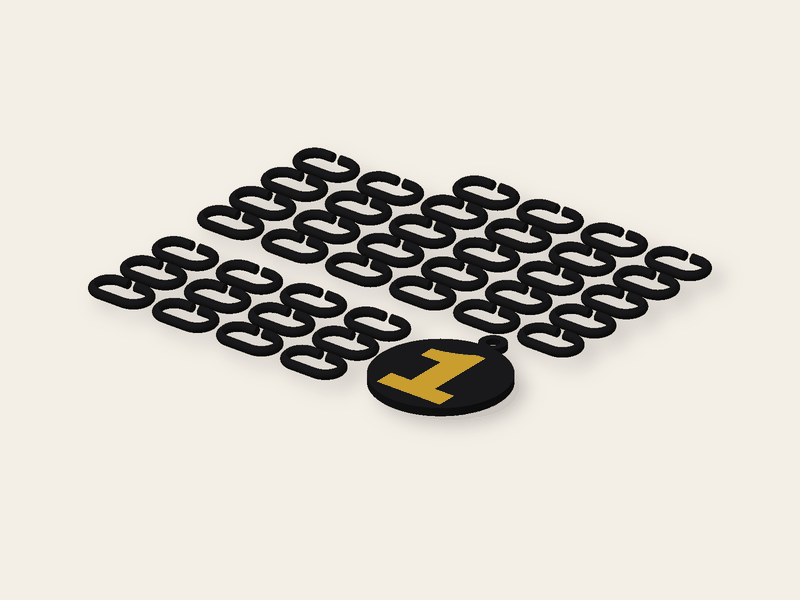
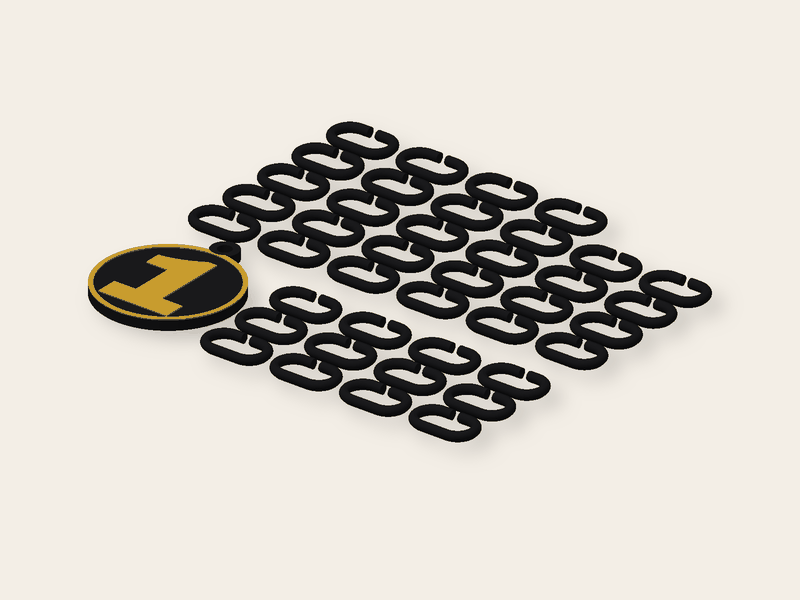
Medal face up again: the number raised with one change of filament by height, the rim in its colour, the plate as thick as a link (4.4) so the chain stays below the change; face down only behind the engine's inlay (not offered); medallion out of OrderService::ASSEMBLED; texts, examples; P.md §8a

Changed region(s): [[0.0938, 0.18, 0.9062, 0.75]]

diff --git a/tests/Feature/ShapeToolsTest.php b/tests/Feature/ShapeToolsTest.php
@@ -4,6 +4,7 @@ namespace Tests\Feature;
 
 use App\Domain\Farm\Palette;
 use App\Domain\Tools\ParametricGenerator;
+use App\Engines\Repair\PythonTool;
 use App\Models\ModelFile;
 use App\Support\PreviewMeta;
 use App\Support\ToolSeo;
@@ -538,7 +539,7 @@ class ShapeToolsTest extends TestCase
         return [$sum / max($weight, 1e-9), $lo, $hi];
     }
 
-    public function test_a_medal_lies_face_down_with_its_motif_smooth_on_the_bed_and_a_round_chain_beside_it(): void
+    public function test_a_medal_has_its_number_raised_in_one_change_and_a_round_chain_beside_it(): void
     {
         $one = ['line1' => '1', 'typeface' => 'archivo'];
         // what the tool starts with: 60 mm and forty links, all of it one plate of a 220 mm bed
@@ -547,35 +548,39 @@ class ShapeToolsTest extends TestCase
         $this->assertLessThanOrEqual(220, max($first['bbox']['x'], $first['bbox']['y']));
         $this->assertSame([], $first['notes']['warnings']);
 
-        // the number is its own part in the bottom three layers, beside the plate in the same layers: printed by parts,
-        // never a change of filament by height
+        // face up: the plate 4.4 mm, the number raised one step on it, one change of filament where it starts; the links
+        // stay under the change, so they print in the plate's filament
         $parts = collect($first['parts'])->keyBy('name');
         $this->assertSame(['body', 'color_1'], $first['notes']['parts']);
-        $this->assertEqualsWithDelta(0.0, $parts['color_1']['bbox'][2], 0.001, 'the motif lies on the bed');
-        $this->assertEqualsWithDelta(0.6, $parts['color_1']['bbox'][5], 0.001, 'three layers of 0.2 mm');
-        $this->assertEqualsWithDelta(0.0, $parts['body']['bbox'][2], 0.001);
-        $this->assertTrue($first['notes']['multi_material']);
-        $this->assertSame([], $first['notes']['color_changes']);
+        $this->assertFalse($first['notes']['multi_material']);
+        $this->assertSame([4.4], array_column($first['notes']['color_changes'], 'z'));
+        $this->assertEqualsWithDelta(4.4, $parts['color_1']['bbox'][2], 0.001);
+        $this->assertEqualsWithDelta(5.0, $parts['color_1']['bbox'][5], 0.001);
+        $this->assertEqualsWithDelta(4.4, $parts['body']['bbox'][5], 0.001, 'nothing of the plate or the chain above the change');
         $this->assertSame(2, $first['notes']['filaments']);
         // a dark plate, a light number (here the built-in colours: no farm in this test)
         $this->assertGreaterThan(Palette::lab($first['notes']['body_color']['hex'])[0] + 40, Palette::lab($first['notes']['colors'][0]['hex'])[0]);
-        $deeper = $this->meta($this->preview('medallion', $one + ['depth' => 1, 'links' => 0], 'all', true)->assertOk());
-        $this->assertEqualsWithDelta(1.0, collect($deeper['parts'])->firstWhere('name', 'color_1')['bbox'][5], 0.001);
 
-        // mirrored: an L seen from above has its stem on the right, so turned over it reads right
-        $plate = $this->meta($this->preview('medallion', ['line1' => 'L', 'links' => 0])->assertOk());
+        // the number reads as it is printed: an L has its stem on the left of its middle
+        $plate = $this->meta($this->preview('medallion', ['line1' => 'L', 'links' => 0], 'all', true)->assertOk());
         $letter = $this->preview('medallion', ['line1' => 'L', 'links' => 0], 'color_1')->assertOk();
-        [$mid, $lo, $hi] = self::middleX($letter->streamedContent() ?: $letter->getContent());
-        $this->assertGreaterThan(($lo + $hi) / 2 + 2, $mid, 'the stem of the L lies right of its middle');
-
-        // the eyelet on top, on the axis; a rim on the back: 0.8 mm over the plate of 3 mm
+        $lPart = collect($plate['parts'])->firstWhere('name', 'color_1');
+        $this->assertGreaterThan(50, $lPart['bbox'][3] - $lPart['bbox'][0], 'the number\'s part carries the rim round the medal');
+        // the eyelet on top, on the axis; the rim goes with the number's colour, one step high
         $this->assertEqualsWithDelta($plate['bbox']['x'] / 2, $plate['notes']['eyelet']['x'], 0.1);
-        $this->assertEqualsWithDelta(3.8, $plate['bbox']['z'], 0.01);
+        $this->assertEqualsWithDelta(5.0, $plate['bbox']['z'], 0.01);
+        $this->assertNotEmpty($letter->streamedContent() ?: $letter->getContent());
 
-        // the links: round bars on a flat of 1 mm, as tall as the round bar needs, 838 mm³ each
+        // a thin plate without links stays thin; with links it grows to the height of a link and says so
+        $thin = $this->meta($this->preview('medallion', $one + ['thickness' => 3, 'links' => 0])->assertOk());
+        $this->assertEqualsWithDelta(3.6, $thin['bbox']['z'], 0.01);
+        $this->assertArrayNotHasKey('thickened', $thin['notes']);
+        $thick = $this->meta($this->preview('medallion', $one + ['thickness' => 3])->assertOk());
+        $this->assertSame(4.4, $thick['notes']['thickened']);
+
+        // the links: round bars on a flat of 1 mm, 838 mm³ each
         $bare = $this->meta($this->preview('medallion', $one + ['links' => 0])->assertOk());
         $this->assertEqualsWithDelta(40 * 838.3, $first['volume_mm3'] - $bare['volume_mm3'], 40 * 8);
-        $this->assertEqualsWithDelta(4.33, $first['bbox']['z'], 0.01, 'the links stand a little over the medal');
 
         // seven shapes, each one closed solid on the bed with the eyelet on its axis
         foreach (['circle', 'star', 'hex', 'shield', 'octagon', 'rosette', 'heart'] as $body) {
@@ -583,9 +588,8 @@ class ShapeToolsTest extends TestCase
             $this->assertEqualsWithDelta($body === 'hex' ? 60 * cos(M_PI / 6) : 60, $m['bbox']['x'], 0.6, $body);      // a hexagon is 60 mm across its corners
             $this->assertEqualsWithDelta($m['bbox']['x'] / 2, $m['notes']['eyelet']['x'], 0.6, $body);
             $this->assertSame(['body', 'color_1'], $m['notes']['parts'], $body);
-            foreach ($m['parts'] as $piece) {
-                $this->assertEqualsWithDelta(0.0, $piece['bbox'][2], 0.001, $body.' '.$piece['name']);
-            }
+            $this->assertCount(1, $m['notes']['color_changes'], $body);
+            $this->assertEqualsWithDelta(0.0, collect($m['parts'])->firstWhere('name', 'body')['bbox'][2], 0.001, $body);
         }
 
         // more links than fit one bed: as many as fit, and the tool says so
@@ -594,21 +598,31 @@ class ShapeToolsTest extends TestCase
         $this->assertSame(80, $long['notes']['chain']['asked']);
         $this->assertContains('links_cut', $long['notes']['warnings']);
         $this->assertLessThanOrEqual(220, max($long['bbox']['x'], $long['bbox']['y']));
-        // the biggest medal with forty links is still one plate of 220 mm
         $big = $this->meta($this->preview('medallion', $one + ['width' => 120])->assertOk());
         $this->assertSame(40, $big['notes']['chain']['links']);
         $this->assertLessThanOrEqual(220, max($big['bbox']['x'], $big['bbox']['y']));
-
-        // a picture in colours lies face down the same way: every colour its own part in the bottom layers
-        $star = $this->meta($this->preview('medallion', ['artwork' => 'lib:colour/smiling-star', 'links' => 0], 'all', true)->assertOk());
-        $this->assertGreaterThan(2, count($star['notes']['parts']));
-        foreach ($star['parts'] as $piece) {
-            if ($piece['name'] !== 'body') {
-                $this->assertLessThanOrEqual(0.601, $piece['bbox'][5], $piece['name']);
-            }
-        }
         $this->preview('medallion', $one + ['links' => 81])->assertStatus(422);
-        $this->get('/tools/medallion')->assertOk()->assertSee('data-param="links"', false)->assertSee('data-preset="place1"', false);
+        $this->get('/tools/medallion')->assertOk()->assertSee('data-param="links"', false)->assertSee('data-preset="place1"', false)->assertDontSee('data-param="depth"', false);
+    }
+
+    public function test_a_medal_face_down_with_its_motif_inlaid_waits_in_the_engine(): void
+    {
+        // `inlay` is not offered on the page (the farm prints one filament per plate); the engine keeps it ready
+        $generator = app(ParametricGenerator::class);
+        $forTool = (new \ReflectionMethod($generator, 'forTool'))->invoke($generator, 'medallion', ParametricGenerator::clean('medallion', ['line1' => 'L', 'typeface' => 'archivo', 'links' => 0]));
+        $this->assertArrayNotHasKey('inlay', ParametricGenerator::clean('medallion', ['line1' => '1', 'inlay' => true]), 'the page cannot ask for it');
+        $path = tempnam(sys_get_temp_dir(), 'medal').'.stl';
+        $python = app(PythonTool::class);
+        $params = $path.'.json';                       // the palette makes it longer than a command line may be
+        file_put_contents($params, (string) json_encode($forTool + ['inlay' => true, 'depth' => 0.6]));
+        $meta = $python->runScript('param_tool.py', ['medallion', $path, '@'.$params, 'color_1', 'print'], 60);
+        @unlink($path);
+        @unlink($params);
+        $notes = (array) ($meta['notes'] ?? []);
+        $this->assertSame(['body', 'color_1'], $notes['parts'] ?? null, json_encode($meta));
+        $this->assertTrue($notes['multi_material']);
+        $this->assertSame([], $notes['color_changes']);
+        $this->assertEqualsWithDelta(0.6, $meta['bbox']['z'] ?? 0, 0.001, 'the motif in the bottom three layers');
     }
 
     public function test_an_organizer_is_a_tall_dish_with_compartments_or_round_holes(): void

diff --git a/engines/python/shape_kinds.py b/engines/python/shape_kinds.py
@@ -405,12 +405,15 @@ def build(M, Invalid, p, product):
         if floor_mode not in ("engraved", "colors", "plain"):
             raise Invalid("bad_choice", "floor")
         flush, rim, bevel = floor_mode == "colors", False, False       # colours of a floor can only be inlaid: the walls stand in the same layers
-    # a medal lies face down: its motif is the bottom layers, smooth from the bed, in its own colour beside the plate's
-    # (two filaments in the same layers: printed by parts, never a change by height); the eyelet always on top of it
-    face_down = product == "medallion"
-    if face_down:
+    # a medal: face up, its motif raised and changed by height, a rim round it in the motif's first colour, the eyelet
+    # always on top of it. With `inlay` it lies face down instead: the motif is the bottom layers, smooth from the bed, in
+    # its own colour beside the plate's. Two filaments in the same layers need a printer that prints both in one plate;
+    # the farm does not yet, so the page does not offer it (docs/P.md §8)
+    medal = product == "medallion"
+    face_down = medal and bool(p.get("inlay", False))
+    if medal:
         flush, rim, bevel = False, False, False
-    eyelet = (bool(p.get("eyelet", False)) and product in ("charm", "keychain", "earrings", "ornament", "gingerbread")) or (bool(p.get("hang", False)) and product in ("cookie", "name_letter")) or face_down
+    eyelet = (bool(p.get("eyelet", False)) and product in ("charm", "keychain", "earrings", "ornament", "gingerbread")) or (bool(p.get("hang", False)) and product in ("cookie", "name_letter")) or medal
     biscuit = product == "cookie"                             # a picture or a silhouette as dough, icing piped on it by hand
     cookie = product in ("gingerbread", "name_letter", "topper")      # the shape is ours, the visitor brings the name
     warn = []
@@ -453,7 +456,7 @@ def build(M, Invalid, p, product):
             pal = options["palette"]
             first = options["assign"].get("1")
             # letters dark on a light plate; a medal the other way round, its number shines on a dark plate
-            code = first or ((max if face_down else min)(pal, key=lambda f: _light(f[1]))[0] if pal else "")
+            code = first or ((max if medal else min)(pal, key=lambda f: _light(f[1]))[0] if pal else "")
             hx = dict((c, h) for c, h in pal).get(code, "#222222")
             layers = [{"index": 1, "rgb": hx, "code": code, "hex": hx, "share": 1.0, "own": art, "stack": art}]
             info = {"source": "text", "silhouette": art, "size": list(S.size(art)), "found": 1, "wanted": 1, "background": "alpha", "missing_chars": tinfo.get("missing_chars", [])}
@@ -549,7 +552,7 @@ def build(M, Invalid, p, product):
         travel = S.dense(S.outer_ring(body2d))
         if cookie and info.get("top"):
             travel = S.started(travel, info["top"])
-        if face_down:
+        if medal:
             # straight above the middle, where the outline is highest there: a medal hangs straight
             bx0, by0, bx1, by1 = body2d.bounds()
             mid = (bx0 + bx1) / 2
@@ -615,6 +618,20 @@ def build(M, Invalid, p, product):
         t = round(mag_h + 0.8, 2)                             # a floor of four layers over the magnet
         notes["thickened"] = t
     depth = n("depth", 0.6)
+    if medal and not face_down and int(n("links", 40)) > 0:
+        tall = math.ceil(_link_profile(LINK[2])[0] / 0.2 - 1e-6) * 0.2
+        if t < tall - 1e-6:
+            # a change of filament by height colours everything above it on the bed, links too: they stay under the plate's top
+            t = round(tall, 2)
+            notes["thickened"] = t
+    if medal and not face_down and layers:
+        # the rim round the medal goes with the motif's first colour, one step high: every band of layers keeps one filament
+        lem2d = medal2d - medal2d.offset(-2.0, J, 2.0, 32)
+        if ring_out is not None:
+            lem2d = lem2d - ring_out.offset(0.01, J, 2.0, 24)
+        if not lem2d.is_empty():
+            layers[0]["own"] = layers[0]["own"] + lem2d
+            layers[0]["stack"] = layers[0]["stack"] + lem2d
     if face_down:
         top = t
         solids = [(layer, layer["own"].extrude(depth)) for layer in layers]
@@ -762,8 +779,8 @@ def build(M, Invalid, p, product):
         spools = sorted(p.get("palette") or [], key=lambda f: -_light(f[1]))
         body_color = own or dish_color or ((spools[0][0], spools[0][1]) if spools else ("", "#ede6d6"))
     elif is_text:
-        pal = sorted(p.get("palette") or [], key=lambda f: _light(f[1]) if face_down else -_light(f[1]))
-        body_color = own or ((pal[0][0], pal[0][1]) if pal else ("", "#2b2b2e" if face_down else "#ede6d6"))       # letters dark, the plate light; a medal the other way round
+        pal = sorted(p.get("palette") or [], key=lambda f: _light(f[1]) if medal else -_light(f[1]))
+        body_color = own or ((pal[0][0], pal[0][1]) if pal else ("", "#2b2b2e" if medal else "#ede6d6"))       # letters dark, the plate light; a medal the other way round
     else:
         # the plate is the picture's lowest colour unless the visitor gives it its own: no filament is changed for it,
         # so a picture of two colours is one change, which is what the farm prints today

diff --git a/lang/es/tools_seo/medallion.php b/lang/es/tools_seo/medallion.php
@@ -2,11 +2,11 @@
 
 return [
     'title' => 'Medalla con cadena para ganadores: 1.º, 2.º y 3.er puesto',
-    'description' => 'Medalla de ganador con número en oro, plata o bronce, lisa por imprimirse boca abajo, y cadena de 40 eslabones. La imprimimos o la descarga gratis.',
+    'description' => 'Medalla de ganador con número en relieve en oro, plata o bronce sobre placa oscura y cadena de 40 eslabones. La imprimimos o descarga el modelo.',
     'h1' => 'Medalla para los ganadores con cadena: oro, plata y bronce',
     'intro' => [
         'La herramienta crea una medalla para los ganadores de una carrera infantil, un torneo, un concurso escolar o el día del niño. Con un clic elige el 1.º, 2.º o 3.er puesto: el número en oro, plata o bronce sobre una placa oscura. Puede cambiar el número, un nombre en dos líneas de hasta 16 caracteres o su propia imagen, y también los colores. La placa tiene siete formas: círculo, estrella, hexágono, octógono, escudo, roseta con borde ondulado y corazón, de 40 a 120 mm de ancho, 60 mm al empezar.',
-        'La medalla se imprime boca abajo. El número o la imagen está en las tres capas inferiores, junto a la placa, así que sale tan liso como el cristal de la cama y en otro color, sin cambio de filamento por altura. Por detrás tiene un borde de 2 mm y la argolla siempre arriba, en el eje. Al lado de la medalla se imprime la cadena: 40 eslabones al empezar, de sección redonda de 4 mm, que encajan unos en otros. Cuarenta eslabones dan una cadena de unos 88 cm y, con una medalla de 60 mm, caben en una cama de 220 × 220 mm.',
+        'El número o la imagen sobresale de la placa y se imprime en un segundo color: la impresora cambia de filamento una vez, a la altura donde empieza el número. Alrededor de la medalla hay un borde de 2 mm del color del número y la argolla siempre está arriba, en el eje. Al lado se imprime la cadena: 40 eslabones al empezar, de sección redonda de 4 mm, que encajan unos en otros. La placa tiene 4,4 mm de grosor, como un eslabón, para que toda la cadena quede del color de la placa. Cuarenta eslabones dan una cadena de unos 88 cm y, con una medalla de 60 mm, caben en una cama de 220 × 220 mm.',
     ],
     'steps' => [
         ['name' => 'Elija el puesto', 'text' => '1.º, 2.º o 3.er puesto: el número recibe oro, plata o bronce y la placa un color oscuro. Puede seguir cambiando el número, un nombre, una imagen y los colores.'],
@@ -15,7 +15,7 @@ return [
         ['name' => 'Pida la impresión o descargue', 'text' => 'Junto a la vista previa ve las medidas; el precio exacto lo muestra la calculadora tras «Continuar». El modelo y el proyecto para el laminador se descargan gratis y sin registro.'],
     ],
     'faq' => [
-        ['q' => '¿Por qué la medalla se imprime boca abajo?', 'a' => 'La cara que toca la cama sale tan lisa y brillante como la cama. El número está en las tres capas inferiores (0,6 mm) junto a la placa, cada uno en su color: la impresora los pone uno al lado del otro solo en esas capas y luego sigue con un color. El número está reflejado para que se lea bien al dar la vuelta a la medalla.'],
+        ['q' => '¿Cómo se imprime un número dorado sobre una placa negra?', 'a' => 'La placa, la cadena y la argolla se imprimen en negro hasta 4,4 mm. Ahí la impresora cambia de filamento una vez e imprime en dorado el número en relieve y el borde de la medalla. Por eso la placa es tan gruesa como un eslabón: la cadena queda por debajo del cambio y sale toda negra.'],
         ['q' => '¿Qué colores tienen los puestos?', 'a' => '1.er puesto PLA Silk dorado, 2.º puesto PLA Silk plateado, 3.er puesto bronce (metálico cuando lo tenemos cargado, si no PLA Silk cobre). La placa es oscura para que el número destaque. Al hacer el pedido elige entre las bobinas cargadas en las impresoras en ese momento.'],
         ['q' => '¿Qué longitud de cadena necesito?', 'a' => 'Para un niño bastan 60 a 70 cm, es decir 28 a 32 eslabones; para un adulto 80 a 90 cm, es decir 36 a 40 eslabones. La cadena se pasa por la cabeza, no tiene cierre.'],
         ['q' => '¿Cómo se unen los eslabones?', 'a' => 'Cada eslabón es un óvalo de 30 × 18 mm con sección redonda de 4 mm y una abertura en el centro de un lado largo. La abertura es casi medio milímetro más estrecha que el eslabón, así que el vecino encaja. Por debajo el eslabón se apoya en una franja plana estrecha y el redondeo empieza a 45°, por eso se imprime sin soportes.'],

diff --git a/lang/cs/tools_seo/medallion.php b/lang/cs/tools_seo/medallion.php
@@ -2,11 +2,11 @@
 
 return [
     'title' => 'Medaile pro vítěze s řetězem: 1., 2. a 3. místo',
-    'description' => 'Medaile pro vítěze se zlatou, stříbrnou nebo bronzovou číslicí, hladkou lícem na podložce, a řetězem ze 40 článků. Vytiskneme ji, nebo model stáhnete.',
+    'description' => 'Medaile pro vítěze se vystouplou zlatou, stříbrnou nebo bronzovou číslicí na tmavé destičce a řetězem ze 40 článků. Vytiskneme ji, nebo model stáhnete.',
     'h1' => 'Medaile pro vítěze s řetězem: zlatá, stříbrná a bronzová',
     'intro' => [
         'Nástroj vytvoří medaili pro vítěze dětského závodu, turnaje, školní soutěže nebo dětského dne. Jedním klepnutím zvolíte 1., 2. nebo 3. místo: číslice ve zlaté, stříbrné nebo bronzové barvě na tmavé destičce. Číslo, jméno do dvou řádků po 16 znacích nebo vlastní obrázek můžete změnit, stejně jako barvy. Destička má sedm tvarů: kruh, hvězdu, šestiúhelník, osmiúhelník, štít, rozetu s vroubkovaným okrajem a srdce, široká je 40 až 120 mm, výchozí 60 mm.',
-        'Medaile se tiskne lícem dolů. Číslice nebo obrázek leží ve spodních třech vrstvách vedle destičky, takže vyjde hladká jako sklo podložky a v jiné barvě, bez výměny filamentu ve výšce. Na zadní straně je lem 2 mm a očko je vždy nahoře na ose. Vedle medaile se vytiskne řetěz: výchozích 40 článků s kulatým průřezem 4 mm, které do sebe zacvaknete. Čtyřicet článků dá řetěz kolem 88 cm a s medailí 60 mm se vejdou na jednu podložku 220 × 220 mm.',
+        'Číslice nebo obrázek vystupuje nad destičku a tiskne se druhou barvou: tiskárna vymění filament ve výšce, kde číslice začíná, jednou za celý tisk. Kolem medaile je lem 2 mm v barvě číslice a očko je vždy nahoře na ose. Vedle medaile se vytiskne řetěz: výchozích 40 článků s kulatým průřezem 4 mm, které do sebe zacvaknete. Destička je silná 4,4 mm, stejně jako článek, aby řetěz zůstal celý v barvě destičky. Čtyřicet článků dá řetěz kolem 88 cm a s medailí 60 mm se vejdou na jednu podložku 220 × 220 mm.',
     ],
     'steps' => [
         ['name' => 'Zvolte místo', 'text' => '1. místo, 2. místo, nebo 3. místo: číslice dostane zlatou, stříbrnou nebo bronzovou barvu, destička tmavou. Číslo, jméno, obrázek i barvy dál měníte.'],
@@ -15,7 +15,7 @@ return [
         ['name' => 'Objednejte tisk, nebo stáhněte', 'text' => 'Vedle náhledu vidíte rozměry, přesnou cenu ukáže kalkulace po „Pokračovat“. Model i projekt pro slicer stáhnete zdarma a bez registrace.'],
     ],
     'faq' => [
-        ['q' => 'Proč se medaile tiskne lícem dolů?', 'a' => 'Líc, který leží na podložce, vyjde hladký a lesklý jako podložka. Číslice je ve spodních třech vrstvách (0,6 mm) vedle destičky, každá v jiné barvě: tiskárna je tiskne vedle sebe jen v těch vrstvách, pak už pokračuje jednou barvou. Číslici jsme zrcadlili, aby po otočení četla správně.'],
+        ['q' => 'Jak se tiskne zlatá číslice na černé destičce?', 'a' => 'Destička, řetěz i očko se tisknou černě do výšky 4,4 mm. Tam tiskárna jednou vymění filament a vytiskne vystouplou číslici a lem kolem medaile zlatě. Proto je destička stejně silná jako článek řetězu: řetěz pod výměnou zůstane celý černý.'],
         ['q' => 'Jaké barvy mají jednotlivá místa?', 'a' => '1. místo zlatá PLA Silk, 2. místo stříbrná PLA Silk, 3. místo bronzová (metalická, když ji máme založenou, jinak měděná PLA Silk). Destička je tmavá, aby číslice vynikla. Při objednávce vybíráte z cívek, které jsou právě v tiskárnách.'],
         ['q' => 'Jak dlouhý řetěz potřebuju?', 'a' => 'Pro dítě stačí 60 až 70 cm, tedy 28 až 32 článků; pro dospělého 80 až 90 cm, tedy 36 až 40 článků. Řetěz se přetahuje přes hlavu, nemá zapínání.'],
         ['q' => 'Jak se články spojují?', 'a' => 'Každý článek je ovál 30 × 18 mm s kulatým průřezem 4 mm a mezerou uprostřed delší strany. Mezera je o necelý půlmilimetr užší než článek, takže soused do ní zacvakne. Dole má článek úzkou plošku, na které leží, a zaoblení začíná pod úhlem 45°, takže se tiskne bez podpěr.'],

diff --git a/lang/en/tools_seo/medallion.php b/lang/en/tools_seo/medallion.php
@@ -2,11 +2,11 @@
 
 return [
     'title' => 'Medal for the winners on a chain: 1st, 2nd and 3rd place',
-    'description' => 'A winner\'s medal with a gold, silver or bronze number, smooth from lying face down, and a chain of 40 snap-in links. We print it or you download it.',
+    'description' => 'A winner\'s medal with a raised gold, silver or bronze number on a dark plate and a chain of 40 snap-in links. We print it, or you download the model.',
     'h1' => 'Medal for the winners on a chain: gold, silver and bronze',
     'intro' => [
         'The tool makes a medal for the winners of a children\'s race, a tournament, a school contest or a kids\' day. One click chooses 1st, 2nd or 3rd place: the number in gold, silver or bronze on a dark plate. You can change the number, a name in two lines of up to 16 characters or your own picture, and the colours too. The plate comes in seven shapes: circle, star, hexagon, octagon, shield, a rosette with a scalloped edge and a heart, 40 to 120 mm wide, 60 mm to begin with.',
-        'The medal prints face down. The number or picture lies in the bottom three layers beside the plate, so it comes out as smooth as the glass of the bed and in another colour, with no change of filament by height. The back has a rim of 2 mm and the eyelet is always on top, on the axis. A chain is printed next to the medal: 40 links to begin with, round 4 mm bars that snap into one another. Forty links make a chain of about 88 cm, and with a 60 mm medal they fit one bed of 220 × 220 mm.',
+        'The number or picture stands out from the plate and prints in a second colour: the printer changes filament once, at the height where the number starts. A rim of 2 mm in the number\'s colour runs round the medal and the eyelet is always on top, on the axis. A chain is printed next to the medal: 40 links to begin with, round 4 mm bars that snap into one another. The plate is 4.4 mm thick, as tall as a link, so the whole chain stays in the plate\'s colour. Forty links make a chain of about 88 cm, and with a 60 mm medal they fit one bed of 220 × 220 mm.',
     ],
     'steps' => [
         ['name' => 'Choose the place', 'text' => '1st, 2nd or 3rd place: the number gets gold, silver or bronze, the plate a dark colour. You can still change the number, a name, a picture and the colours.'],
@@ -15,7 +15,7 @@ return [
         ['name' => 'Order the print or download', 'text' => 'Next to the preview you see the dimensions; the exact price is shown by the calculator after "Continue". The model and the slicer project download for free, without signing up.'],
     ],
     'faq' => [
-        ['q' => 'Why is the medal printed face down?', 'a' => 'The face that lies on the bed comes out as smooth and shiny as the bed. The number sits in the bottom three layers (0.6 mm) beside the plate, each in its own colour: the printer lays them side by side in those layers only and then goes on in one colour. The number is mirrored so it reads right once the medal is turned over.'],
+        ['q' => 'How is a gold number printed on a black plate?', 'a' => 'The plate, the chain and the eyelet print in black up to 4.4 mm. There the printer changes filament once and prints the raised number and the rim round the medal in gold. That is why the plate is as thick as a link of the chain: the chain stays below the change and comes out all black.'],
         ['q' => 'What colours do the places have?', 'a' => '1st place gold PLA Silk, 2nd place silver PLA Silk, 3rd place bronze (metallic when we have it loaded, otherwise copper PLA Silk). The plate is dark so the number stands out. When ordering you choose from the spools loaded in the printers right now.'],
         ['q' => 'How long a chain do I need?', 'a' => 'For a child 60 to 70 cm will do, that is 28 to 32 links; for an adult 80 to 90 cm, that is 36 to 40 links. The chain goes over the head, it has no clasp.'],
         ['q' => 'How do the links join?', 'a' => 'Each link is an oval of 30 × 18 mm with a round 4 mm bar and a gap in the middle of a long side. The gap is a little under half a millimetre narrower than the link, so the neighbour snaps in. Underneath, the link stands on a narrow flat and the rounding starts at 45°, so it prints without supports.'],

diff --git a/tests/Feature/ToolsFlowTest.php b/tests/Feature/ToolsFlowTest.php
@@ -467,7 +467,7 @@ class ToolsFlowTest extends TestCase
         $this->assertSame('cap', $this->postJson('/api/tools/param', ['kind' => 'cap', 'params' => $base + ['style' => 'plug']])->assertCreated()->json('file.kind'));
     }
 
-    public function test_a_medal_goes_to_the_farm_by_parts_number_and_plate_from_two_spools(): void
+    public function test_a_medal_goes_to_the_farm_as_one_plate_with_the_number_from_the_second_spool(): void
     {
         if (! app(ParametricGenerator::class)->available()) {
             $this->markTestSkipped('Python with manifold3d is not installed.');
@@ -483,19 +483,18 @@ class ToolsFlowTest extends TestCase
         $free[0]->update(['farm_color_id' => $gold->id, 'remaining_g' => 800, 'enabled' => true]);
         $free[1]->update(['farm_color_id' => $black->id, 'remaining_g' => 800, 'enabled' => true]);
 
-        // first place: a gold one on a black plate, face down, forty links
+        // first place: a gold one raised on a black plate, forty links; one change of filament where the number starts
         $made = $this->actingAs($user)->postJson('/api/tools/param', ['kind' => 'medallion', 'params' => ['line1' => '1', 'part_colors' => ['color_1' => '#d4a531', 'body' => '#1b1b1d']]])->assertCreated();
         $file = ModelFile::where('uuid', $made->json('file.uuid'))->firstOrFail();
         $this->assertSame(['body', 'color_1'], $file->tool_params['parts']);
-        $this->assertTrue((bool) ($file->tool_params['multi_material'] ?? false), 'two colours in the same layers');
-        $this->assertSame([], (array) ($file->tool_params['color_changes'] ?? []), 'never a change by height');
+        $this->assertFalse((bool) ($file->tool_params['multi_material'] ?? false));
+        $this->assertSame([4.4], array_column((array) $file->tool_params['color_changes'], 'z'));
 
-        // the order starts by parts: the plate from the black spool, the number from the gold one
+        // the farm prints one plate, never a part on its own: the plate from the black spool, the change to the gold one
         $order = $this->startOrder($user, 'file='.$file->uuid);
-        $this->assertTrue($order->isByParts());
+        $this->assertFalse($order->isByParts());
         $this->assertSame($black->id, self::picked($order, 'color'));
-        $this->assertSame($gold->id, self::picked($order, 'part_color[color_1]'));
-        $this->assertSame([], (array) $order->color_changes);
+        $this->assertSame($gold->id, self::picked($order, 'change_color[0]'));
     }
 
     public function test_calculator_compares_materials_for_the_model(): void

diff --git a/app/Domain/Tools/ParametricGenerator.php b/app/Domain/Tools/ParametricGenerator.php
@@ -198,8 +198,10 @@ final class ParametricGenerator
         // the shape is ours (a gingerbread man, a heart, a star, a tree), the visitor brings the name: no picture, no picture's fields
         'gingerbread' => ['width' => [50, 150, 90, 1], 'thickness' => [2, 6, 3, 0.2], 'relief' => [0.4, 1.2, 0.6, 0.2], 'eye_hole' => [3, 6, 4, 0.5]] + self::SHAPE_EYELET,
         // a medal: the eyelet takes a link of the chain (a bar of 4 mm), `links` is how many of them are printed next to it
-        // a medal lies face down: no colours stacked on it (relief), its motif `depth` deep in the bottom layers, the eyelet always on top
-        'medallion' => ['width' => [40, 120, 60, 1], 'thickness' => [3, 6, 3, 0.2], 'frame' => [0, 5, 2, 0.1]] + ['colors_n' => [1, 8, 4, 1], 'bg_strength' => [0, 100, 30, 1], 'smooth' => [0, 1, 0.3, 0.05], 'contrast' => [50, 150, 100, 1], 'brightness' => [50, 150, 100, 1], 'saturation' => [0, 200, 100, 1]] + ['depth' => [0.4, 1, 0.6, 0.2], 'eye_hole' => [5, 8, 6, 0.5], 'eye_wall' => [2, 4, 3, 0.1], 'links' => [0, 80, 40, 1]],
+        // a medal face up, its motif raised and changed by height; the plate as thick as a link (4.4 mm), else the links' tops
+        // would print in the motif's colour. The eyelet always on top. (Face down with the motif inlaid, `inlay`, waits
+        // for a farm that prints two filaments in one plate: docs/P.md §8.)
+        'medallion' => ['width' => [40, 120, 60, 1], 'thickness' => [3, 6, 4.4, 0.2], 'frame' => [0, 5, 2, 0.1]] + self::SHAPE_FIELDS + ['eye_hole' => [5, 8, 6, 0.5], 'eye_wall' => [2, 4, 3, 0.1], 'links' => [0, 80, 40, 1]],
         // a charm for a bag with holes: `bag_hole` is the hole of the bag the pin goes through, `bag_wall` how thick the bag is there
         'bag_charm' => ['width' => [30, 80, 45, 1], 'thickness' => [4, 8, 5, 0.2], 'frame' => [0, 3, 1.5, 0.1]] + self::SHAPE_FIELDS + ['bag_hole' => [6, 20, 12, 0.5], 'bag_wall' => [1, 10, 4, 0.5]],
         // held, not hung: a clip for a drinking straw of `straw_d`, and the tongue of a can opener; both sit on the outline at `eye_pos`

diff --git a/lang/es/param.php b/lang/es/param.php
@@ -242,8 +242,8 @@ return [
     'shape.pockets.grid' => 'Compartimentos: :n, :d mm de fondo.',
     'shape.pockets.holes' => 'Orificios: :n, :d mm de fondo.',
     'shape.part.body.photo_organizer' => 'Organizador',
-    'medallion.lead' => 'Una medalla para los ganadores: 1.º, 2.º y 3.er puesto, con cadena. El número o la imagen se imprime liso, boca abajo sobre la cama, en oro, plata o bronce; al lado se imprime una cadena de eslabones que encajan unos en otros.',
-    'medallion.tip' => 'Se imprime boca abajo, sin soportes: el número queda liso y en otro color que la placa; la impresora pone los dos colores uno al lado del otro solo en las primeras capas. Los eslabones son redondos: engánchelos entre sí y el primero en la argolla. Una cadena de plástico duro no es para el cuello de niños pequeños sin supervisión.',
+    'medallion.lead' => 'Una medalla para los ganadores: 1.º, 2.º y 3.er puesto, con cadena. Un número o una imagen en relieve en oro, plata o bronce sobre una placa oscura; al lado se imprime una cadena de eslabones que encajan unos en otros.',
+    'medallion.tip' => 'Se imprime boca arriba, sin soportes, con un cambio de filamento a la altura donde empieza el número. Los eslabones son redondos: engánchelos entre sí y el primero en la argolla. Una cadena de plástico duro no es para el cuello de niños pequeños sin supervisión.',
     'f.medallion.width' => 'Diámetro de la medalla',
     'f.links' => 'Eslabones de la cadena',
     'shape.chain.fact' => 'Eslabones: :n, una cadena de unos :l cm.',

diff --git a/lang/en/param.php b/lang/en/param.php
@@ -242,8 +242,8 @@ return [
     'shape.pockets.grid' => 'Compartments: :n, :d mm deep.',
     'shape.pockets.holes' => 'Holes: :n, :d mm deep.',
     'shape.part.body.photo_organizer' => 'Holder',
-    'medallion.lead' => 'A medal for the winners: 1st, 2nd and 3rd place, with a chain. The number or picture is printed smooth, face down on the bed, in gold, silver or bronze; a chain of links that snap into one another is printed right next to it.',
-    'medallion.tip' => 'It prints face down, without supports: the number is smooth and in another colour than the plate; the printer lays the two colours side by side in the first layers only. The links are round; hook them into one another and the first one into the eyelet. A chain of hard plastic is not for the necks of small children without supervision.',
+    'medallion.lead' => 'A medal for the winners: 1st, 2nd and 3rd place, with a chain. A raised number or picture in gold, silver or bronze on a dark plate; a chain of links that snap into one another is printed right next to it.',
+    'medallion.tip' => 'It prints face up, without supports, with one change of filament at the height where the number starts. The links are round; hook them into one another and the first one into the eyelet. A chain of hard plastic is not for the necks of small children without supervision.',
     'f.medallion.width' => 'Diameter of the medal',
     'f.links' => 'Links of the chain',
     'shape.chain.fact' => 'Links: :n, a chain about :l cm long.',

diff --git a/lang/cs/param.php b/lang/cs/param.php
@@ -242,8 +242,8 @@ return [
     'shape.pockets.grid' => 'Počet přihrádek: :n, hloubka :d mm.',
     'shape.pockets.holes' => 'Počet otvorů: :n, hloubka :d mm.',
     'shape.part.body.photo_organizer' => 'Stojánek',
-    'medallion.lead' => 'Medaile pro vítěze: 1., 2. a 3. místo, s řetězem. Číslo nebo obrázek se tiskne hladký lícem na podložce ve zlaté, stříbrné nebo bronzové, řetěz z článků, které do sebe zacvaknete, hned vedle.',
-    'medallion.tip' => 'Tiskne se lícem dolů, bez podpěr: číslo je hladké a v jiné barvě než destička, tiskárna obě barvy tiskne vedle sebe jen v prvních vrstvách. Články mají kulatý průřez, zaháknete je do sebe a první do očka. Řetěz z tvrdého plastu nepatří na krk malým dětem bez dozoru.',
+    'medallion.lead' => 'Medaile pro vítěze: 1., 2. a 3. místo, s řetězem. Vystouplá číslice nebo obrázek ve zlaté, stříbrné nebo bronzové barvě na tmavé destičce, řetěz z článků, které do sebe zacvaknete, hned vedle.',
+    'medallion.tip' => 'Tiskne se lícem nahoru, bez podpěr, s jednou výměnou filamentu ve výšce, kde začíná číslice. Články mají kulatý průřez, zaháknete je do sebe a první do očka. Řetěz z tvrdého plastu nepatří na krk malým dětem bez dozoru.',
     'f.medallion.width' => 'Průměr medaile',
     'f.links' => 'Počet článků řetězu',
     'shape.chain.fact' => 'Počet článků: :n, řetěz dlouhý asi :l cm.',

diff --git a/app/Domain/Farm/OrderService.php b/app/Domain/Farm/OrderService.php
@@ -343,9 +343,7 @@ final class OrderService
     /** Our generators whose parts are separate objects (a box and its lid…), not the colour layers of one piece. */
     public const ASSEMBLED = ['box', 'vase', 'stamp', 'logo', 'qr', 'lightbox', 'cutter', 'modular',
         // a silhouette pushed into its base (and the post of the hair-tie holder pushed through it): each its own colour
-        'notes', 'hair_tie', 'candle_stand',
-        // a medal lies face down: its motif is a part of its own beside the plate in the first layers, never a change by height
-        'medallion'];
+        'notes', 'hair_tie', 'candle_stand'];
 
     /** The name of a part as the tool's page shows it ("Víko", "Deska 2", "Díl 3"); the raw name when none is known. */
     public static function partLabel(?ModelFile $file, string $part): string

diff --git a/docs/P.md b/docs/P.md
@@ -682,3 +682,34 @@ Od Romana podle ohlasu na YouTube (video „Medaile s řetězem“, 933 zhlédnu
 - Jestli je líc s číslem hladký a barvy vedle sebe se nepřetírají: číslo v první vrstvě musí tiskárna tisknout druhou
   tryskou nebo z druhé cívky (Kobra S1 s ACE, Kobra X).
 - Jestli ploška 1 mm drží článek na podložce, nebo se kraj první vrstvy zvedá.
+
+### 8a. Lícem nahoru, změna po výšce (19. 10. 2026)
+
+**Proč**: farma tiskne „po dílech“ každý díl na samostatné podložce (`PrepareFarmOrder`: `part-1.stl`,
+`part-2.stl`). Dva filamenty v jedné podložce zatím neumí, `multi_material` se ve farmě nikde nečte. Medaile lícem
+dolů by tedy vyšla jako dvě věci: černá deska s prázdnou kapsou 0,6 mm a samostatná zlatá jednička 0,6 mm. Řídící
+session rozhodla:
+- teď medaile lícem nahoru se změnou po výšce,
+- tisk dvou filamentů v jedné podložce je nová práce farmy.
+
+**Jak je to teď**:
+- **Číslo nebo obrázek** vystupuje nad desku o `relief` (výchozí 0,6). Barvy obrázku se mění po výšce jako
+  v kole 1, jednička je jedna výměna.
+- **Lem 2 mm** kolem medaile je součástí prvního dílu motivu (`color_1`): je v jeho barvě a jeden krok vysoký, takže
+  každé pásmo vrstev drží jeden filament.
+- **Deska 4,4 mm**, stejně jako článek (4,33 mm zaokrouhleno na vrstvy). Výměna filamentu po výšce barví celou
+  podložku, i řetěz; články proto musí končit pod výměnou. S články a tenčí deskou ji nástroj zvedne na 4,4 mm
+  (`notes.thickened`). Bez článků zůstane, jak je zadaná.
+- **Zrcadlení**: žádné.
+- **Očko** zůstává nahoře na ose.
+- **Předvolby, tvary, 60 mm / 40 článků a kulaté články** zůstávají beze změny.
+- **Farma**: `medallion` už není v `OrderService::ASSEMBLED`. Objednávka je jedna podložka: deska z tmavé cívky,
+  výměna na zlatou ve 4,4 mm (`ToolsFlowTest`).
+
+**Varianta lícem dolů** je v enginu dál, za volbou `inlay` (a `depth`). Stránka ji nenabízí, `clean()` ji z formuláře
+nepustí. Test `test_a_medal_face_down_with_its_motif_inlaid_waits_in_the_engine` ji staví přímo přes
+`param_tool.py`. Zapnout ji jde, až farma vytiskne dva filamenty v jedné podložce:
+1. přidat `inlay` do FLAGS a `depth` do FIELDS medaile,
+2. vrátit `medallion` do ASSEMBLED, nebo nový druh tisku.
+
+**Ukázky** jsou překreslené lícem nahoru. Karta zůstává studiovou fotkou.
